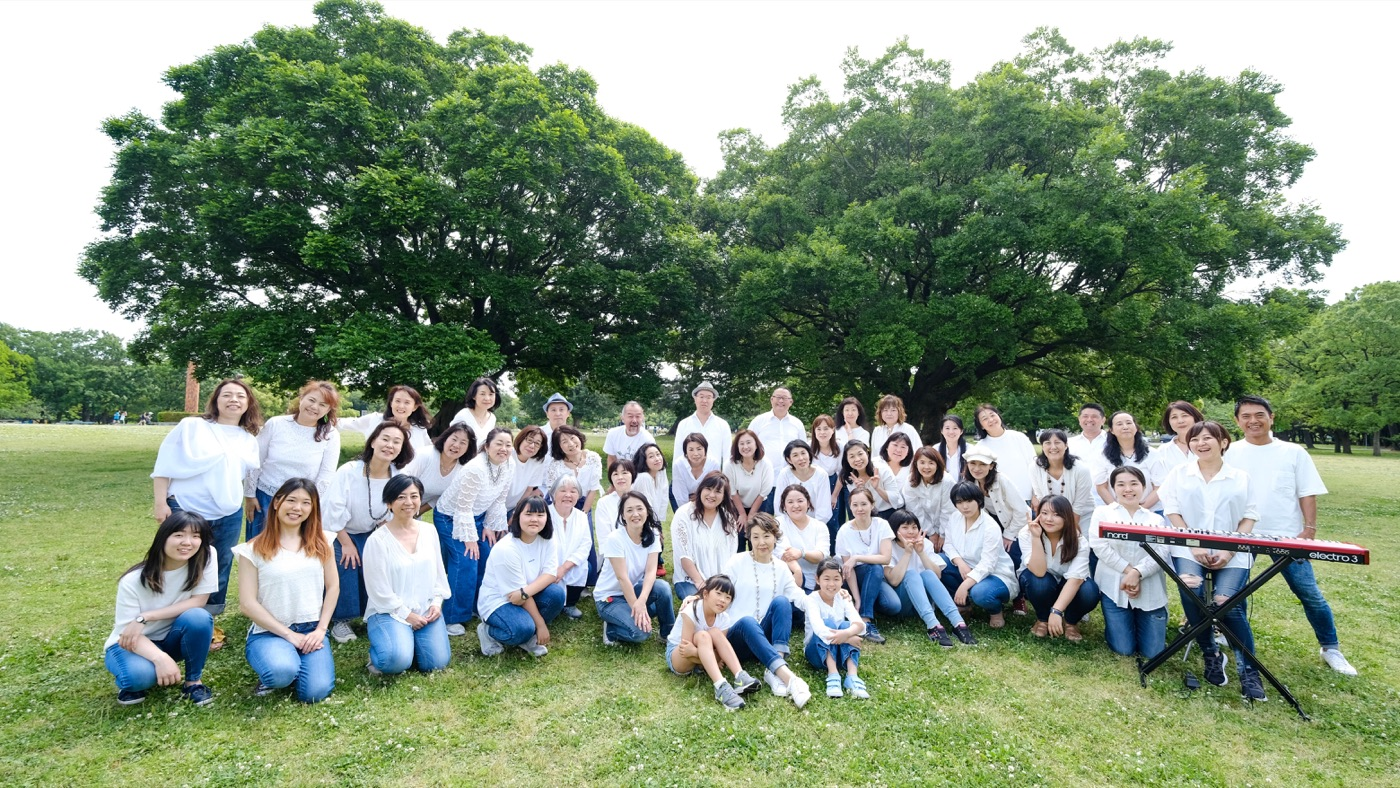
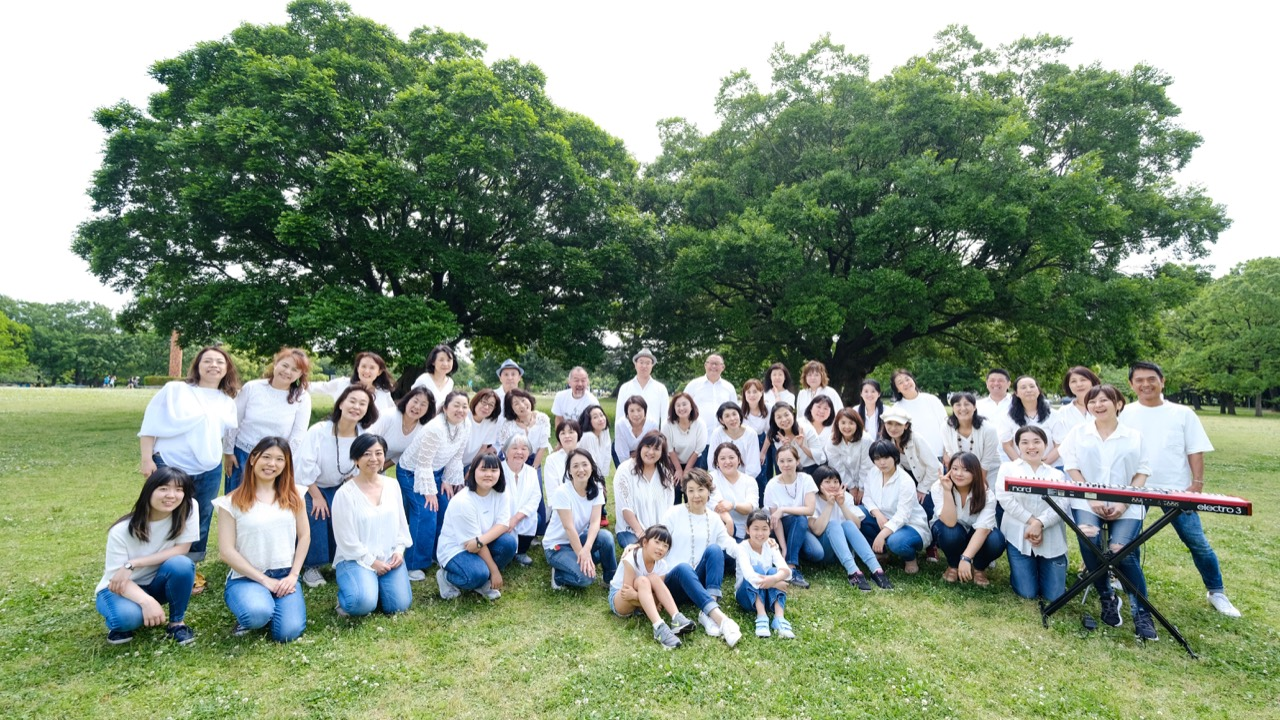
Tier 3 technical: image perf, accessibility, SEO scaffolding
K: recompress hero/values photos (top1 max 540KB→380KB, ~1280px q72),
   add fetchpriority=high + preload for the hero LCP image, and
   loading=lazy/decoding=async on below-the-fold images (top about &
   gallery previews, about-page leader portraits).
L: hamburger button now toggles aria-expanded and has aria-controls
   pointing at the m-menu panel (id added); contact category cards are
   keyboard-operable (role=button, tabindex=0, Enter/Space handler).
M: add self-referential canonical links to all 8 pages, MusicGroup
   JSON-LD (name/founding 1999/Nagoya address) on the top page, and a
   vov_sitemap.xml ready for launch. robots.txt stays Disallow — the
   site remains noindex until the go-public decision.

diff --git a/vov_top.html b/vov_top.html
@@ -14,7 +14,12 @@
 <meta property="og:url" content="https://junnarita-pixel.github.io/30th-anniversary/vov_top.html">
 <meta property="og:image" content="https://junnarita-pixel.github.io/30th-anniversary/vov_assets/top1-01.jpg">
 <meta name="twitter:card" content="summary_large_image">
+<link rel="canonical" href="https://junnarita-pixel.github.io/30th-anniversary/vov_top.html">
+<script type="application/ld+json">
+{"@context":"https://schema.org","@type":"MusicGroup","name":"Voices of Vision","alternateName":"VOV","genre":"Gospel","foundingDate":"1999","url":"https://junnarita-pixel.github.io/30th-anniversary/vov_top.html","image":"https://junnarita-pixel.github.io/30th-anniversary/vov_assets/top1-01.jpg","description":"名古屋のゴスペルクワイア Voices of Vision（VOV）。1999年創設。オーディションなし・楽譜なしで、初心者も歓迎。","location":{"@type":"Place","name":"在日大韓基督教会 名古屋教会 7F","address":{"@type":"PostalAddress","postalCode":"450-0002","addressCountry":"JP","addressRegion":"愛知県","addressLocality":"名古屋市中村区","streetAddress":"名駅2-39-11"}}}
+</script>
 <link rel="icon" type="image/svg+xml" href="vov_assets/favicon.svg">
+<link rel="preload" as="image" href="vov_assets/top1-01.jpg" fetchpriority="high">
 <link rel="preconnect" href="https://fonts.googleapis.com">
 <link rel="preconnect" href="https://fonts.gstatic.com" crossorigin>
 <link href="https://fonts.googleapis.com/css2?family=Lora:ital,wght@0,400;0,500;0,600;0,700;1,400;1,600;1,700&family=Noto+Sans+JP:wght@300;400;500;600;700&family=Noto+Serif+JP:wght@500;600;700&display=swap" rel="stylesheet">
@@ -485,10 +490,10 @@ footer{background:var(--ink);padding:64px 48px 30px;border-top:4px solid var(--g
     <li><a href="vov_posts.html">活動レポート</a></li>
     <li><a href="vov_contact.html" class="nav-cta">体験を申し込む</a></li>
   </ul>
-  <button class="menu-btn" aria-label="メニューを開く" onclick="document.body.classList.toggle('menu-open')">
+  <button class="menu-btn" aria-label="メニュー" aria-expanded="false" aria-controls="m-menu" onclick="const o=document.body.classList.toggle('menu-open');this.setAttribute('aria-expanded',o)">
     <span></span><span></span><span></span>
   </button>
-  <div class="m-menu">
+  <div class="m-menu" id="m-menu">
     <a href="vov_top.html">トップ</a>
     <a href="vov_about.html">VOVについて</a>
     <a href="vov_schedule.html">活動・スケジュール</a>
@@ -502,7 +507,7 @@ footer{background:var(--ink);padding:64px 48px 30px;border-top:4px solid var(--g
 
 <!-- ===== HERO（フルスクリーン） ===== -->
 <div class="hero">
-  <div class="hero-bg"><img src="vov_assets/top1-01.jpg" alt="Voices of Vision" data-rot="hero"></div>
+  <div class="hero-bg"><img src="vov_assets/top1-01.jpg" alt="Voices of Vision" data-rot="hero" fetchpriority="high" decoding="async"></div>
   <div class="hero-scrim"></div>
   <div class="hero-frame"></div>
   <div class="hero-badge">
@@ -540,7 +545,7 @@ footer{background:var(--ink);padding:64px 48px 30px;border-top:4px solid var(--g
     <div class="about-g rv">
       <div class="ai-block">
         <div class="ai-frame"></div>
-        <div class="ai-main"><img src="vov_assets/top2-01.jpg" alt="VOVのメンバー" data-rot="about"></div>
+        <div class="ai-main"><img src="vov_assets/top2-01.jpg" alt="VOVのメンバー" data-rot="about" loading="lazy" decoding="async"></div>
         <div class="ai-badge">
           <span class="ai-badge-n">Since<br>1999</span>
           <span class="ai-badge-t">Nagoya</span>
@@ -654,11 +659,11 @@ footer{background:var(--ink);padding:64px 48px 30px;border-top:4px solid var(--g
       <a href="vov_gallery.html" class="btn-line">すべて見る →</a>
     </div>
     <div class="gal-grid rv">
-      <a class="gc" href="vov_gallery.html"><div class="gc-in"><img src="vov_assets/gb-20th.jpg" alt="20周年記念コンサート" data-rot="gal"></div><div class="gc-ov"><span class="gc-ov-t">20周年記念コンサート</span></div></a>
-      <a class="gc" href="vov_gallery.html"><div class="gc-in"><img src="vov_assets/gb-night-reh.jpg" alt="夜リハーサル" data-rot="gal"></div><div class="gc-ov"><span class="gc-ov-t">夜リハーサル</span></div></a>
-      <a class="gc" href="vov_gallery.html"><div class="gc-in"><img src="vov_assets/gb-tokai.jpg" alt="東海フェスティバル" data-rot="gal"></div><div class="gc-ov"><span class="gc-ov-t">東海フェスティバル</span></div></a>
-      <a class="gc" href="vov_gallery.html"><div class="gc-in"><img src="vov_assets/gb-tpw.jpg" alt="TPWとの共演" data-rot="gal"></div><div class="gc-ov"><span class="gc-ov-t">TPWとの共演</span></div></a>
-      <a class="gc" href="vov_gallery.html"><div class="gc-in"><img src="vov_assets/gb-newyear.jpg" alt="VOV新年会" data-rot="gal"></div><div class="gc-ov"><span class="gc-ov-t">VOV新年会</span></div></a>
+      <a class="gc" href="vov_gallery.html"><div class="gc-in"><img src="vov_assets/gb-20th.jpg" alt="20周年記念コンサート" data-rot="gal" loading="lazy" decoding="async"></div><div class="gc-ov"><span class="gc-ov-t">20周年記念コンサート</span></div></a>
+      <a class="gc" href="vov_gallery.html"><div class="gc-in"><img src="vov_assets/gb-night-reh.jpg" alt="夜リハーサル" data-rot="gal" loading="lazy" decoding="async"></div><div class="gc-ov"><span class="gc-ov-t">夜リハーサル</span></div></a>
+      <a class="gc" href="vov_gallery.html"><div class="gc-in"><img src="vov_assets/gb-tokai.jpg" alt="東海フェスティバル" data-rot="gal" loading="lazy" decoding="async"></div><div class="gc-ov"><span class="gc-ov-t">東海フェスティバル</span></div></a>
+      <a class="gc" href="vov_gallery.html"><div class="gc-in"><img src="vov_assets/gb-tpw.jpg" alt="TPWとの共演" data-rot="gal" loading="lazy" decoding="async"></div><div class="gc-ov"><span class="gc-ov-t">TPWとの共演</span></div></a>
+      <a class="gc" href="vov_gallery.html"><div class="gc-in"><img src="vov_assets/gb-newyear.jpg" alt="VOV新年会" data-rot="gal" loading="lazy" decoding="async"></div><div class="gc-ov"><span class="gc-ov-t">VOV新年会</span></div></a>
     </div>
 
     <!-- 動画（YouTube埋め込みエリア） -->

diff --git a/vov_contact.html b/vov_contact.html
@@ -14,6 +14,7 @@
 <meta property="og:url" content="https://junnarita-pixel.github.io/30th-anniversary/vov_contact.html">
 <meta property="og:image" content="https://junnarita-pixel.github.io/30th-anniversary/vov_assets/top1-01.jpg">
 <meta name="twitter:card" content="summary_large_image">
+<link rel="canonical" href="https://junnarita-pixel.github.io/30th-anniversary/vov_contact.html">
 <link rel="icon" type="image/svg+xml" href="vov_assets/favicon.svg">
 <link rel="preconnect" href="https://fonts.googleapis.com">
 <link rel="preconnect" href="https://fonts.gstatic.com" crossorigin>
@@ -238,10 +239,10 @@ footer{background:var(--ink);padding:64px 48px 30px;border-top:4px solid var(--g
     <li><a href="vov_posts.html">活動レポート</a></li>
     <li><a href="#form" class="nav-cta">体験を申し込む</a></li>
   </ul>
-  <button class="menu-btn" aria-label="メニューを開く" onclick="document.body.classList.toggle('menu-open')">
+  <button class="menu-btn" aria-label="メニュー" aria-expanded="false" aria-controls="m-menu" onclick="const o=document.body.classList.toggle('menu-open');this.setAttribute('aria-expanded',o)">
     <span></span><span></span><span></span>
   </button>
-  <div class="m-menu">
+  <div class="m-menu" id="m-menu">
     <a href="vov_top.html">トップ</a>
     <a href="vov_about.html">VOVについて</a>
     <a href="vov_schedule.html">活動・スケジュール</a>
@@ -272,17 +273,17 @@ footer{background:var(--ink);padding:64px 48px 30px;border-top:4px solid var(--g
 
     <!-- カテゴリ選択 -->
     <div class="cat-g">
-      <div class="cat" onclick="selectCat(this,'イベント出演依頼')">
+      <div class="cat" role="button" tabindex="0" onkeydown="if(event.key==='Enter'||event.key===' '){event.preventDefault();this.click()}" onclick="selectCat(this,'イベント出演依頼')">
         <div class="cat-icon">01</div>
         <div class="cat-n">イベント出演依頼</div>
         <p class="cat-d">イベント・式典などへの出演のご相談</p>
       </div>
-      <div class="cat active" onclick="selectCat(this,'体験・見学の申し込み')">
+      <div class="cat active" role="button" tabindex="0" onkeydown="if(event.key==='Enter'||event.key===' '){event.preventDefault();this.click()}" onclick="selectCat(this,'体験・見学の申し込み')">
         <div class="cat-icon">02</div>
         <div class="cat-n">体験・見学</div>
         <p class="cat-d">リハーサルの体験・見学の申し込み</p>
       </div>
-      <div class="cat" onclick="selectCat(this,'メディア取材・その他')">
+      <div class="cat" role="button" tabindex="0" onkeydown="if(event.key==='Enter'||event.key===' '){event.preventDefault();this.click()}" onclick="selectCat(this,'メディア取材・その他')">
         <div class="cat-icon">03</div>
         <div class="cat-n">取材・その他</div>
         <p class="cat-d">メディア取材やその他のお問い合わせ</p>

diff --git a/vov_about.html b/vov_about.html
@@ -14,6 +14,7 @@
 <meta property="og:url" content="https://junnarita-pixel.github.io/30th-anniversary/vov_about.html">
 <meta property="og:image" content="https://junnarita-pixel.github.io/30th-anniversary/vov_assets/top1-01.jpg">
 <meta name="twitter:card" content="summary_large_image">
+<link rel="canonical" href="https://junnarita-pixel.github.io/30th-anniversary/vov_about.html">
 <link rel="icon" type="image/svg+xml" href="vov_assets/favicon.svg">
 <link rel="preconnect" href="https://fonts.googleapis.com">
 <link rel="preconnect" href="https://fonts.gstatic.com" crossorigin>
@@ -271,10 +272,10 @@ footer{background:var(--ink);padding:64px 48px 30px;border-top:4px solid var(--g
     <li><a href="vov_posts.html">活動レポート</a></li>
     <li><a href="vov_contact.html" class="nav-cta">体験を申し込む</a></li>
   </ul>
-  <button class="menu-btn" aria-label="メニューを開く" onclick="document.body.classList.toggle('menu-open')">
+  <button class="menu-btn" aria-label="メニュー" aria-expanded="false" aria-controls="m-menu" onclick="const o=document.body.classList.toggle('menu-open');this.setAttribute('aria-expanded',o)">
     <span></span><span></span><span></span>
   </button>
-  <div class="m-menu">
+  <div class="m-menu" id="m-menu">
     <a href="vov_top.html">トップ</a>
     <a href="vov_about.html">VOVについて</a>
     <a href="vov_schedule.html">活動・スケジュール</a>
@@ -335,7 +336,7 @@ footer{background:var(--ink);padding:64px 48px 30px;border-top:4px solid var(--g
     <h2>指導者<em>紹介</em></h2>
     <div class="leaders-g">
       <div class="leader">
-        <div class="leader-ph"><img src="vov_assets/leader-founder.jpg" alt="ラニー・ラッカー" style="object-position:center 20%"></div>
+        <div class="leader-ph"><img src="vov_assets/leader-founder.jpg" alt="ラニー・ラッカー" style="object-position:center 20%" loading="lazy" decoding="async"></div>
         <div class="leader-body">
           <p class="leader-role">Founder</p>
           <h3 class="leader-name">ラニー・ラッカー</h3>
@@ -343,7 +344,7 @@ footer{background:var(--ink);padding:64px 48px 30px;border-top:4px solid var(--g
         </div>
       </div>
       <div class="leader">
-        <div class="leader-ph"><img src="vov_assets/leader-director.jpg" alt="兼松弘子" style="object-position:35% center"></div>
+        <div class="leader-ph"><img src="vov_assets/leader-director.jpg" alt="兼松弘子" style="object-position:35% center" loading="lazy" decoding="async"></div>
         <div class="leader-body">
           <p class="leader-role">Director</p>
           <h3 class="leader-name">兼松 弘子</h3>

diff --git a/vov_schedule.html b/vov_schedule.html
@@ -14,6 +14,7 @@
 <meta property="og:url" content="https://junnarita-pixel.github.io/30th-anniversary/vov_schedule.html">
 <meta property="og:image" content="https://junnarita-pixel.github.io/30th-anniversary/vov_assets/top1-01.jpg">
 <meta name="twitter:card" content="summary_large_image">
+<link rel="canonical" href="https://junnarita-pixel.github.io/30th-anniversary/vov_schedule.html">
 <link rel="icon" type="image/svg+xml" href="vov_assets/favicon.svg">
 <link rel="preconnect" href="https://fonts.googleapis.com">
 <link rel="preconnect" href="https://fonts.gstatic.com" crossorigin>
@@ -179,10 +180,10 @@ footer{background:var(--ink);padding:64px 48px 30px;border-top:4px solid var(--g
     <li><a href="vov_about.html">VOVについて</a></li><li><a href="vov_schedule.html" class="active">スケジュール</a></li><li><a href="vov_gallery.html">ギャラリー</a></li><li><a href="vov_history.html">歴史</a></li><li><a href="vov_posts.html">活動レポート</a></li>
     <li><a href="vov_contact.html" class="nav-cta">体験を申し込む</a></li>
   </ul>
-  <button class="menu-btn" aria-label="メニューを開く" onclick="document.body.classList.toggle('menu-open')">
+  <button class="menu-btn" aria-label="メニュー" aria-expanded="false" aria-controls="m-menu" onclick="const o=document.body.classList.toggle('menu-open');this.setAttribute('aria-expanded',o)">
     <span></span><span></span><span></span>
   </button>
-  <div class="m-menu">
+  <div class="m-menu" id="m-menu">
     <a href="vov_top.html">トップ</a>
     <a href="vov_about.html">VOVについて</a>
     <a href="vov_schedule.html">活動・スケジュール</a>

diff --git a/vov_gallery.html b/vov_gallery.html
@@ -14,6 +14,7 @@
 <meta property="og:url" content="https://junnarita-pixel.github.io/30th-anniversary/vov_gallery.html">
 <meta property="og:image" content="https://junnarita-pixel.github.io/30th-anniversary/vov_assets/top1-01.jpg">
 <meta name="twitter:card" content="summary_large_image">
+<link rel="canonical" href="https://junnarita-pixel.github.io/30th-anniversary/vov_gallery.html">
 <link rel="icon" type="image/svg+xml" href="vov_assets/favicon.svg">
 <link rel="preconnect" href="https://fonts.googleapis.com">
 <link rel="preconnect" href="https://fonts.gstatic.com" crossorigin>
@@ -176,10 +177,10 @@ footer{background:var(--ink);padding:64px 48px 30px;border-top:4px solid var(--g
     <li><a href="vov_about.html">VOVについて</a></li><li><a href="vov_schedule.html">スケジュール</a></li><li><a href="vov_gallery.html" class="active">ギャラリー</a></li><li><a href="vov_history.html">歴史</a></li><li><a href="vov_posts.html">活動レポート</a></li>
     <li><a href="vov_contact.html" class="nav-cta">体験を申し込む</a></li>
   </ul>
-  <button class="menu-btn" aria-label="メニューを開く" onclick="document.body.classList.toggle('menu-open')">
+  <button class="menu-btn" aria-label="メニュー" aria-expanded="false" aria-controls="m-menu" onclick="const o=document.body.classList.toggle('menu-open');this.setAttribute('aria-expanded',o)">
     <span></span><span></span><span></span>
   </button>
-  <div class="m-menu">
+  <div class="m-menu" id="m-menu">
     <a href="vov_top.html">トップ</a>
     <a href="vov_about.html">VOVについて</a>
     <a href="vov_schedule.html">活動・スケジュール</a>

diff --git a/vov_history.html b/vov_history.html
@@ -14,6 +14,7 @@
 <meta property="og:url" content="https://junnarita-pixel.github.io/30th-anniversary/vov_history.html">
 <meta property="og:image" content="https://junnarita-pixel.github.io/30th-anniversary/vov_assets/top1-01.jpg">
 <meta name="twitter:card" content="summary_large_image">
+<link rel="canonical" href="https://junnarita-pixel.github.io/30th-anniversary/vov_history.html">
 <link rel="icon" type="image/svg+xml" href="vov_assets/favicon.svg">
 <link rel="preconnect" href="https://fonts.googleapis.com">
 <link rel="preconnect" href="https://fonts.gstatic.com" crossorigin>
@@ -141,10 +142,10 @@ footer{background:var(--ink);padding:64px 48px 30px;border-top:4px solid var(--g
     <li><a href="vov_about.html">VOVについて</a></li><li><a href="vov_schedule.html">スケジュール</a></li><li><a href="vov_gallery.html">ギャラリー</a></li><li><a href="vov_history.html" class="active">歴史</a></li><li><a href="vov_posts.html">活動レポート</a></li>
     <li><a href="vov_contact.html" class="nav-cta">体験を申し込む</a></li>
   </ul>
-  <button class="menu-btn" aria-label="メニューを開く" onclick="document.body.classList.toggle('menu-open')">
+  <button class="menu-btn" aria-label="メニュー" aria-expanded="false" aria-controls="m-menu" onclick="const o=document.body.classList.toggle('menu-open');this.setAttribute('aria-expanded',o)">
     <span></span><span></span><span></span>
   </button>
-  <div class="m-menu">
+  <div class="m-menu" id="m-menu">
     <a href="vov_top.html">トップ</a>
     <a href="vov_about.html">VOVについて</a>
     <a href="vov_schedule.html">活動・スケジュール</a>

diff --git a/vov_posts.html b/vov_posts.html
@@ -14,6 +14,7 @@
 <meta property="og:url" content="https://junnarita-pixel.github.io/30th-anniversary/vov_posts.html">
 <meta property="og:image" content="https://junnarita-pixel.github.io/30th-anniversary/vov_assets/top1-01.jpg">
 <meta name="twitter:card" content="summary_large_image">
+<link rel="canonical" href="https://junnarita-pixel.github.io/30th-anniversary/vov_posts.html">
 <link rel="icon" type="image/svg+xml" href="vov_assets/favicon.svg">
 <link rel="preconnect" href="https://fonts.googleapis.com">
 <link rel="preconnect" href="https://fonts.gstatic.com" crossorigin>
@@ -144,10 +145,10 @@ footer{background:var(--ink);padding:64px 48px 30px;border-top:4px solid var(--g
     <li><a href="vov_about.html">VOVについて</a></li><li><a href="vov_schedule.html">スケジュール</a></li><li><a href="vov_gallery.html">ギャラリー</a></li><li><a href="vov_history.html">歴史</a></li><li><a href="vov_posts.html" class="active">活動レポート</a></li>
     <li><a href="vov_contact.html" class="nav-cta">体験を申し込む</a></li>
   </ul>
-  <button class="menu-btn" aria-label="メニューを開く" onclick="document.body.classList.toggle('menu-open')">
+  <button class="menu-btn" aria-label="メニュー" aria-expanded="false" aria-controls="m-menu" onclick="const o=document.body.classList.toggle('menu-open');this.setAttribute('aria-expanded',o)">
     <span></span><span></span><span></span>
   </button>
-  <div class="m-menu">
+  <div class="m-menu" id="m-menu">
     <a href="vov_top.html">トップ</a>
     <a href="vov_about.html">VOVについて</a>
     <a href="vov_schedule.html">活動・スケジュール</a>

diff --git a/vov_join.html b/vov_join.html
@@ -14,6 +14,7 @@
 <meta property="og:url" content="https://junnarita-pixel.github.io/30th-anniversary/vov_join.html">
 <meta property="og:image" content="https://junnarita-pixel.github.io/30th-anniversary/vov_assets/top1-01.jpg">
 <meta name="twitter:card" content="summary_large_image">
+<link rel="canonical" href="https://junnarita-pixel.github.io/30th-anniversary/vov_join.html">
 <link rel="icon" type="image/svg+xml" href="vov_assets/favicon.svg">
 <link rel="preconnect" href="https://fonts.googleapis.com">
 <link rel="preconnect" href="https://fonts.gstatic.com" crossorigin>
@@ -142,10 +143,10 @@ footer{background:var(--ink);padding:64px 48px 30px;border-top:4px solid var(--g
     <li><a href="vov_about.html">VOVについて</a></li><li><a href="vov_schedule.html">スケジュール</a></li><li><a href="vov_gallery.html">ギャラリー</a></li><li><a href="vov_history.html">歴史</a></li><li><a href="vov_posts.html">活動レポート</a></li>
     <li><a href="vov_contact.html" class="nav-cta">体験を申し込む</a></li>
   </ul>
-  <button class="menu-btn" aria-label="メニューを開く" onclick="document.body.classList.toggle('menu-open')">
+  <button class="menu-btn" aria-label="メニュー" aria-expanded="false" aria-controls="m-menu" onclick="const o=document.body.classList.toggle('menu-open');this.setAttribute('aria-expanded',o)">
     <span></span><span></span><span></span>
   </button>
-  <div class="m-menu">
+  <div class="m-menu" id="m-menu">
     <a href="vov_top.html">トップ</a>
     <a href="vov_about.html">VOVについて</a>
     <a href="vov_schedule.html">活動・スケジュール</a>
